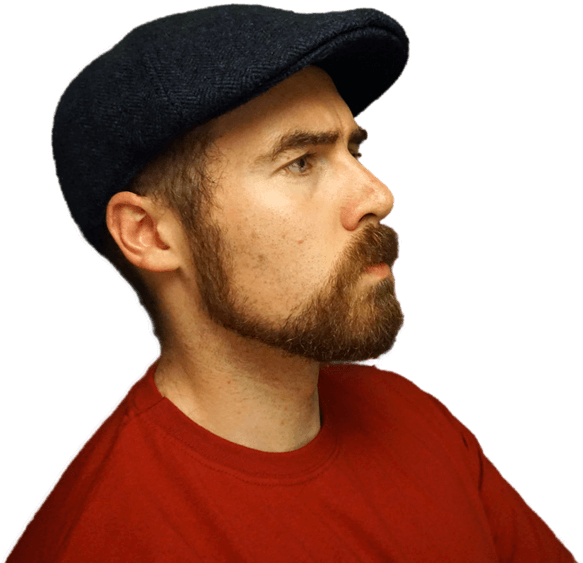
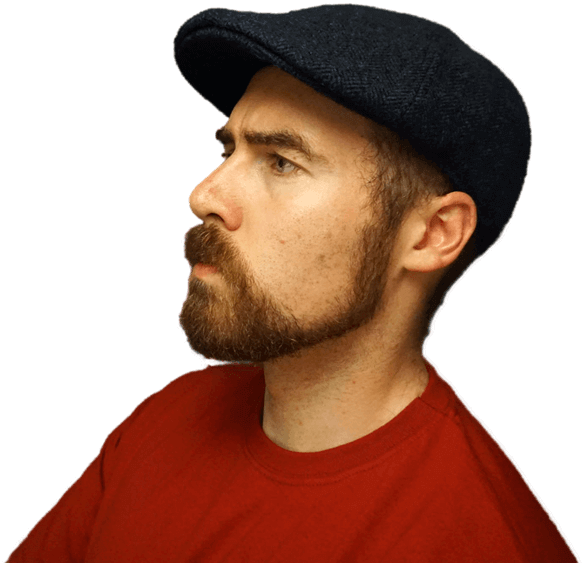
feat(intro): updates images in switcher
removes 1 image and flips 2

diff --git a/components/organisms/ImageSwitcher.vue b/components/organisms/ImageSwitcher.vue
@@ -19,7 +19,6 @@
         '/images/actor/adrian3.png',
         '/images/actor/adrian4.png',
         '/images/actor/adrian5.png',
-        '/images/actor/adrian6.png',
         '/images/actor/adrian1.png'
       ]
 
@@ -33,7 +32,7 @@
         if (next === 1) {
           actor.style.maxWidth = '700px'
           actor.style.right = '-14%'
-        } else if (next === 4) {
+        } else if (next === 3) {
           actor.style.maxWidth = '1000px'
           actor.style.right = ''
         } else {
